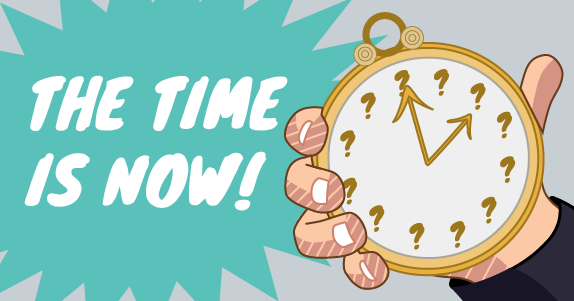
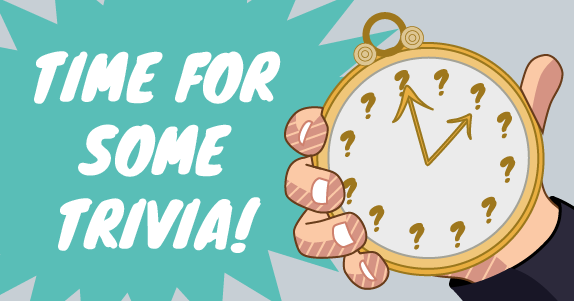
changing poll and trivia flows

diff --git a/src/trivia.js b/src/trivia.js
@@ -65,22 +65,16 @@ module.exports = async function TriviaHandler(convo, event, activityName) {
 				// Submit trivia scores
 				await andybot.trivia.submitScore(userPageId, activityName, correctAnswers, numQuestions);
 
-				const scoreText = getScoreText(correctAnswers, activity.length);
-				convo.say('#trivia-complete', { scoreText: scoreText });
+				let score = Math.round(((correctAnswers*1.0)/activity.length)*100);
 
-				const achievement = await andybot.achievement.progress(userPageId);
-				if (utils.isNonNull(achievement.new) && achievement.new.length > 0) {
-					// Send achievement unlocked message
-					const totalReward = _.reduce(_.map(({tiers, progress}) => tiers[progress].reward), (x, y) => x + y, 0);
-					const unlocked = _.map(achievement.new, (ach) => ({
-						image: ach.splash_image,
-						displayName: ach.tiers[ach.progress].displayName,
-						description: ach.tiers[ach.progress].description, 
-					}));
-					convo.say('#achievement-unlocked', {
-						achievements: unlocked,
-						reward: achievement.reward
-					});
+				if (isNaN(score)) {
+					convo.say('#trivia-complete');
+				} else if (score === 100) {
+					convo.say('#trivia-complete-smartcookie', { score });
+				} else if (score > 60) {
+					convo.say('#trivia-complete-quizwiz', { score });
+				} else {
+					convo.say('#trivia-complete-quizwiz-low');
 				}
 
 				const avaliableActivities = await andybot.avaliableActivities(event.user.id);
@@ -145,10 +139,3 @@ module.exports = async function TriviaHandler(convo, event, activityName) {
 	}
 	convo.activate();	
 };
-
-function getScoreText(correct, total) {
-	if (Math.round(((correct*1.0)/total)*100) > 70) {
-		return `You scored ${Math.round(((correct*1.0)/total)*100)}%`;
-	}
-	return 'Learn the answers this summer at Carnegie Museums of Pittsburgh!';
-}

diff --git a/src/poll.js b/src/poll.js
@@ -65,7 +65,11 @@ module.exports = async function PollHandler(convo, event, activityName) {
 				} else {
 					const agreedWithMe = userResponses[answer];
 					const agreedWithMePercentage = Math.ceil((agreedWithMe / (totalAnswers * 1.0)) * 100);
-					followUpStatement = `${agreedWithMePercentage}% of people agree with you.`;
+					if (isNaN(agreedWithMePercentage)) {
+						followUpStatement = `You are one of the first people to answer this question!`;
+					} else {
+						followUpStatement = `${agreedWithMePercentage}% of people agree with you.`;
+					}
 				}
 
 				convo.say('#poll-followup', { text: followUp, feedback:  followUpStatement });
